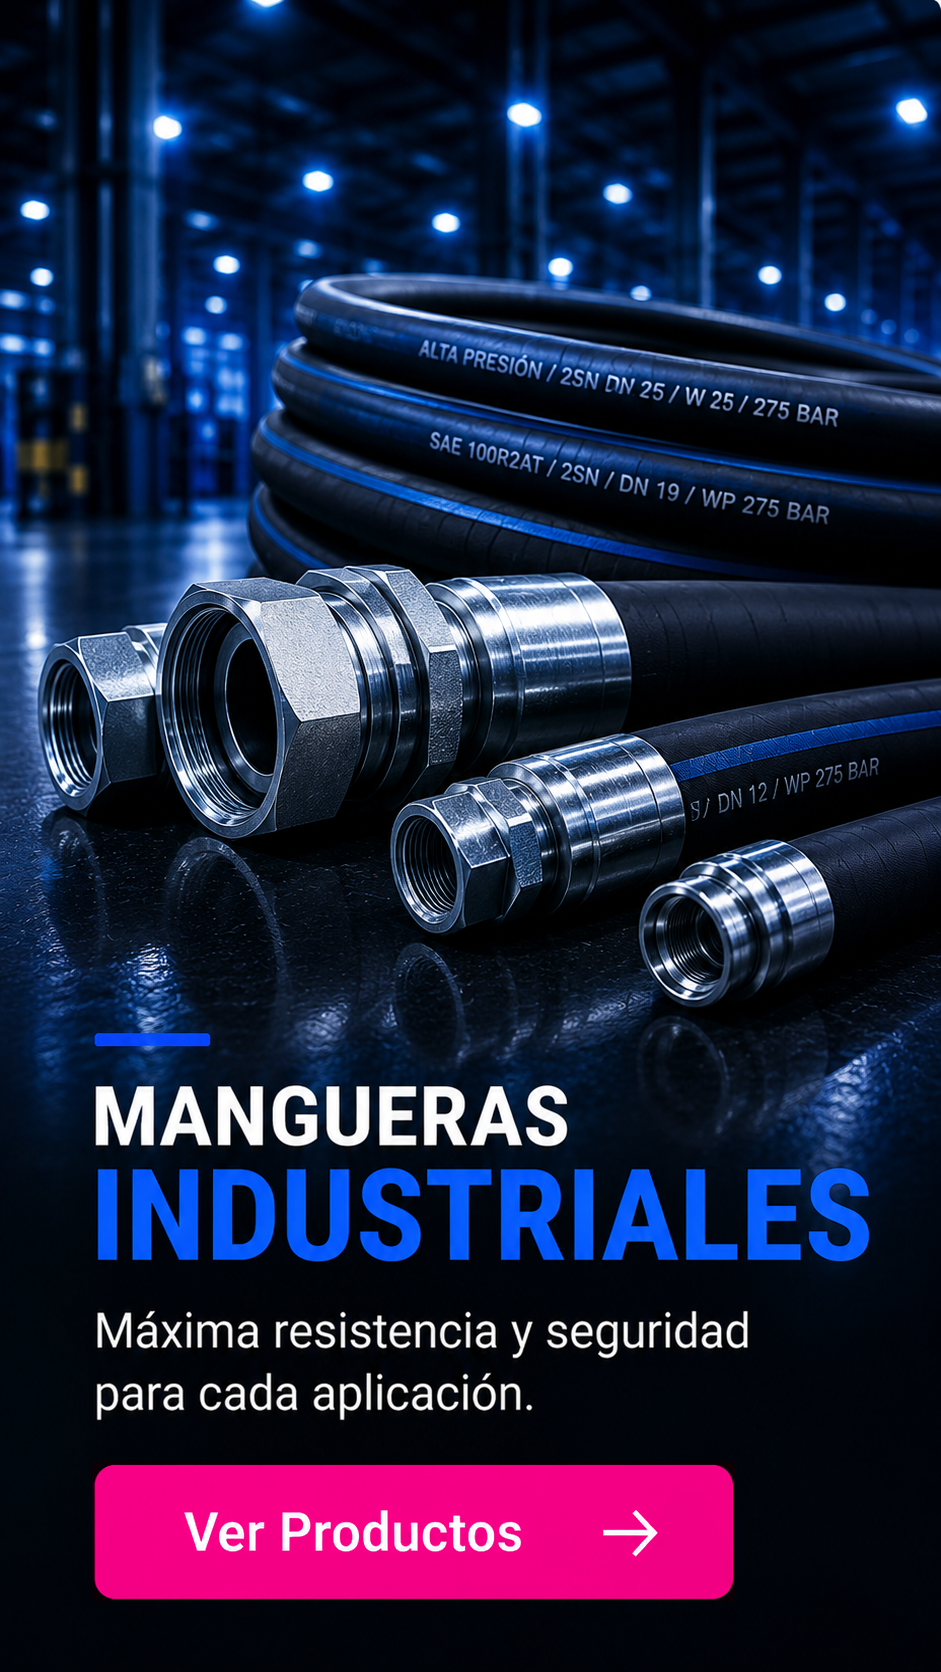
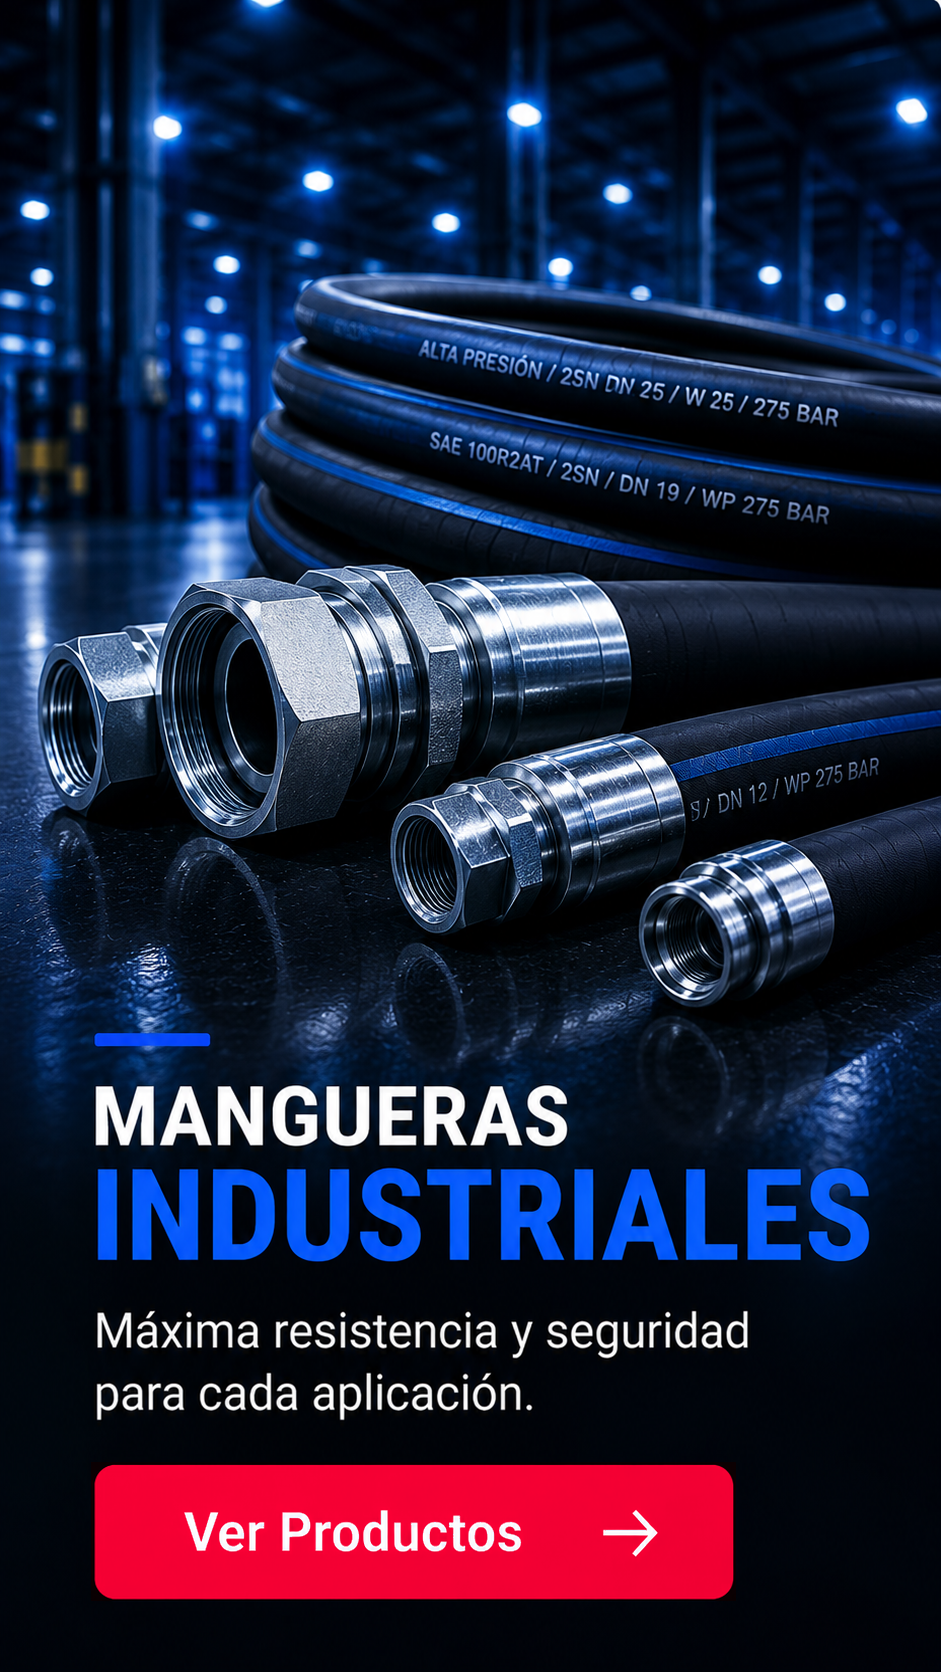
Switch offer buttons to crimson and add a mute toggle to the hero video
Recolored the 4 "Ver Productos" buttons from magenta to #DD1B44, redone
from the original blue source images to avoid compounding the hue-shift.

Added a HeroVideo client component: the banner still autoplays muted
(required by every browser for autoplay), but now shows a speaker
button over the video so visitors can turn sound on with one click,
since a plain <video> has no way to expose that control from a server
component.

Changed region(s): [[0.0925, 0.8708, 0.8013, 0.9641]]

diff --git a/app/components/hero-video.tsx b/app/components/hero-video.tsx
@@ -1,0 +1,68 @@
+"use client";
+
+import { useRef, useState, type CSSProperties } from "react";
+
+export default function HeroVideo({
+  src,
+  className,
+  style,
+}: {
+  src: string;
+  className?: string;
+  style?: CSSProperties;
+}) {
+  const videoRef = useRef<HTMLVideoElement>(null);
+  const [muted, setMuted] = useState(true);
+
+  const toggleMute = () => {
+    const video = videoRef.current;
+    if (!video) return;
+    video.muted = !video.muted;
+    setMuted(video.muted);
+  };
+
+  return (
+    <div className="relative">
+      <video
+        ref={videoRef}
+        src={src}
+        autoPlay
+        muted
+        loop
+        playsInline
+        className={className}
+        style={style}
+      />
+      <button
+        type="button"
+        onClick={toggleMute}
+        aria-label={muted ? "Activar sonido" : "Silenciar video"}
+        className="absolute bottom-4 right-4 z-10 flex h-11 w-11 items-center justify-center rounded-full bg-black/60 text-white backdrop-blur-sm transition-colors duration-200 hover:bg-black/80"
+      >
+        {muted ? (
+          <svg viewBox="0 0 24 24" className="h-5 w-5" fill="currentColor">
+            <path d="M4 9v6h4l5 5V4L8 9H4Z" />
+            <path
+              d="M16.5 8.5 21.5 15.5M21.5 8.5 16.5 15.5"
+              stroke="currentColor"
+              strokeWidth="1.8"
+              strokeLinecap="round"
+              fill="none"
+            />
+          </svg>
+        ) : (
+          <svg viewBox="0 0 24 24" className="h-5 w-5" fill="currentColor">
+            <path d="M4 9v6h4l5 5V4L8 9H4Z" />
+            <path
+              d="M16.2 8.8a5 5 0 0 1 0 6.4M18.8 6.5a8.5 8.5 0 0 1 0 11"
+              stroke="currentColor"
+              strokeWidth="1.8"
+              strokeLinecap="round"
+              fill="none"
+            />
+          </svg>
+        )}
+      </button>
+    </div>
+  );
+}

diff --git a/app/cauchos/page.tsx b/app/cauchos/page.tsx
@@ -4,6 +4,7 @@ import CauchosAddToCartButton from "../components/cauchos-add-to-cart-button";
 import CauchosCategoryCarousel from "../components/cauchos-category-carousel";
 import CauchosCartLink from "../components/cauchos-cart-link";
 import CauchosDynamicMenu from "../components/cauchos-dynamic-menu";
+import HeroVideo from "../components/hero-video";
 import { getSiteImages, resolveImage } from "@/lib/site-images";
 import { isVideoUrl } from "@/lib/image-slots";
 import { getProducts } from "@/lib/products";
@@ -193,12 +194,8 @@ export default async function CauchosPage() {
         </div>
         <div className="bg-white">
           {isVideoUrl(resolveImage("banner-principal", siteImages)) ? (
-            <video
+            <HeroVideo
               src={resolveImage("banner-principal", siteImages)}
-              autoPlay
-              muted
-              loop
-              playsInline
               className="mx-auto h-auto w-full object-contain"
               style={{ maxWidth: "1632px" }}
             />
